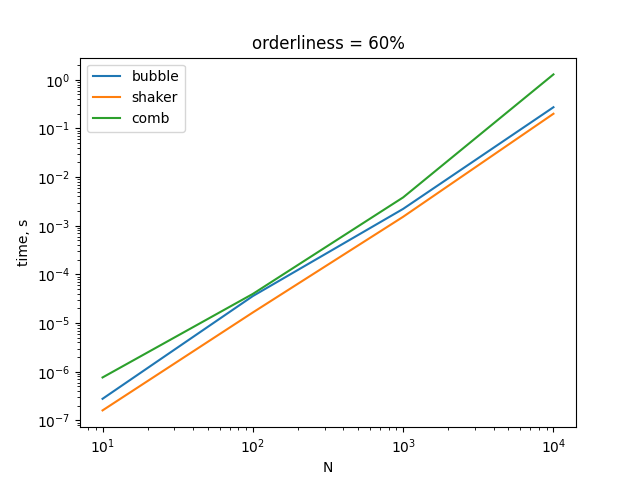
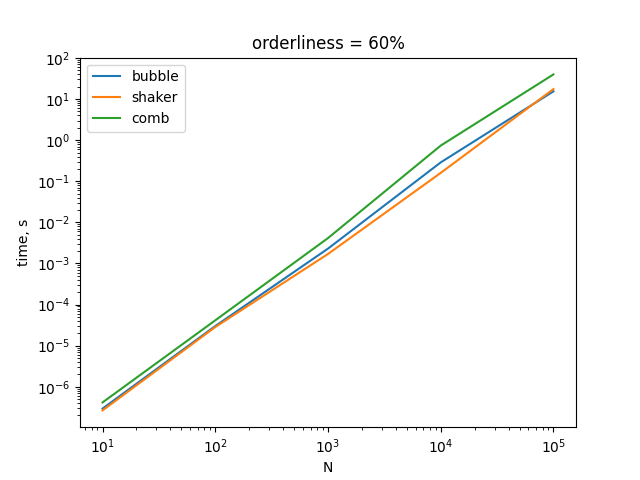
final benchmarks for quadratic_sorting problem

diff --git a/problems/quadratic_sorting/benchmarks.py b/problems/quadratic_sorting/benchmarks.py
@@ -12,18 +12,22 @@ def get_times(N, orderliness, count):
                             capture_output=True, text=True).stdout.split("\n")
     return float(output[0]), float(output[1]), float(output[2])
 
-def get_benchmark_of_N(orderliness):
+def get_benchmark_of_N(orderliness, mc = 1):
     Ns = []
     bubble_measurements = []
     shaker_measurements = []
     comb_measurements = []
     for pN in range(1, 6):
         N = 10 ** pN
-        times = get_times(N, orderliness, COUNT_OF_MEASUREMENTS / N)
+        if N == 10:
+            times = get_times(N, orderliness, 10 * COUNT_OF_MEASUREMENTS / N)
+        else:
+            times = get_times(N, orderliness, mc * COUNT_OF_MEASUREMENTS / N)
         Ns += [N]
         bubble_measurements += [times[0]]
         shaker_measurements += [times[1]]
         comb_measurements += [times[2]]
+        print("\r", N, sep="", end="")
     plt.plot(Ns, bubble_measurements, label="bubble")
     plt.plot(Ns, shaker_measurements, label="shaker")
     plt.plot(Ns, comb_measurements, label="comb")
@@ -34,7 +38,7 @@ def get_benchmark_of_N(orderliness):
     plt.title(f"orderliness = {int(100 * orderliness)}%")
     plt.legend()
     plt.savefig(f"benchmarks/No{int(100 * orderliness)}.png")
-    print(f"benchmarks/No{int(100 * orderliness)}.png")
+    print(f"\rbenchmarks/No{int(100 * orderliness)}.png")
     plt.clf()
 
 def get_benchmark_of_orderliness(N, mc):
@@ -61,12 +65,12 @@ def get_benchmark_of_orderliness(N, mc):
     plt.clf()
 
 os.makedirs("benchmarks", exist_ok=True)
-# get_benchmark_of_N(0)
-# get_benchmark_of_N(0.2)
-# get_benchmark_of_N(0.4)
-# get_benchmark_of_N(0.6)
-# get_benchmark_of_N(0.8)
-# get_benchmark_of_N(.97)
+get_benchmark_of_N(0)
+get_benchmark_of_N(0.2)
+get_benchmark_of_N(0.4)
+get_benchmark_of_N(0.6)
+get_benchmark_of_N(0.8)
+get_benchmark_of_N(1.0, 100)
 # get_benchmark_of_orderliness(100, 10000)
 # get_benchmark_of_orderliness(1000, 100)
 # get_benchmark_of_orderliness(10000, 1)

diff --git a/README.md b/README.md
@@ -21,3 +21,5 @@ There are also solutions to several problems using these structures and algorith
 # Benchmarks:
 
 ![std_vs_radix](problems/radix_sort/benchmarks/N1000000o33d.png)
+
+![bubble_shaker_comb](problems/quadratic_sorting/benchmarks/N1000o.png)
